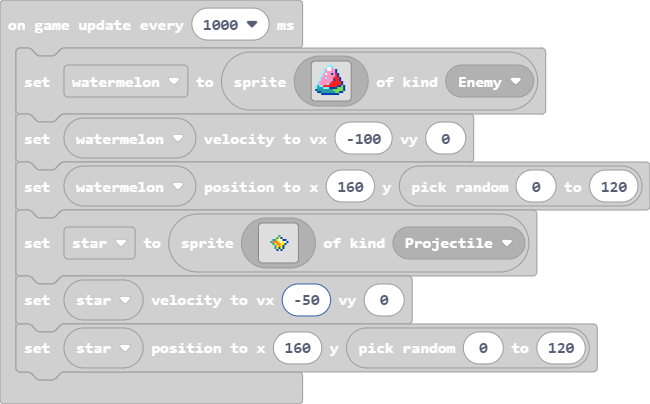
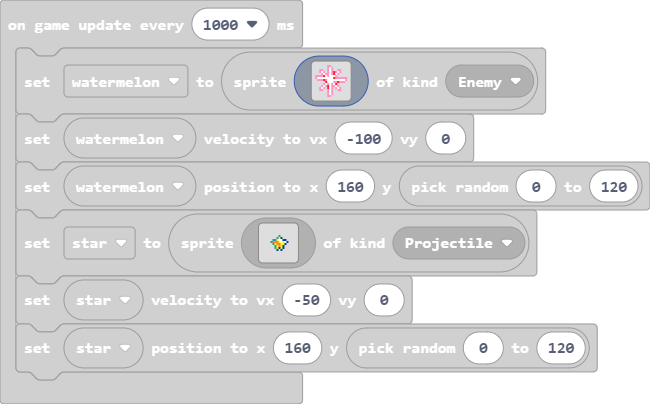
changed watermelon to red shiny star

Changed region(s): [[0.4308, 0.1188, 0.5846, 0.2673], [0.4615, 0.7723, 0.4923, 0.802], [0.4615, 0.6832, 0.4923, 0.7129]]

diff --git a/main.ts b/main.ts
@@ -203,22 +203,22 @@ info.setLife(5)
[1 lines of base64/hex data omitted]
 game.onUpdateInterval(1000, function () {
     watermelon = sprites.create(img`
-        . . . . . . 9 9 9 . . . . . . . 
-        . . . . . 9 1 1 3 9 . . . . . . 
-        . . . . 9 3 1 1 3 3 8 . . . . . 
-        . . . . 9 3 3 3 3 3 8 . . . . . 
-        . . . 9 3 1 3 3 8 3 2 8 . . . . 
-        . . . 9 3 3 3 3 3 3 2 8 . . . . 
-        . . 9 3 3 9 3 3 3 2 2 2 8 . . . 
-        . . 9 3 3 3 3 3 3 8 2 2 8 . . . 
-        . 9 3 3 3 3 3 3 2 2 2 2 2 8 . . 
-        . 9 3 3 3 3 9 2 2 2 2 2 2 8 . . 
-        9 6 9 9 2 2 2 2 2 2 2 8 8 7 8 . 
-        9 6 6 6 9 9 9 8 8 8 8 7 7 7 8 . 
-        8 6 6 6 6 6 6 6 6 7 7 7 7 7 8 . 
-        . 8 8 6 6 6 6 6 6 6 7 7 8 8 . . 
-        . . . 8 8 8 8 8 8 8 8 8 . . . . 
-        . . . . . . . . . . . . . . . . 
+        . . . . . . 3 3 . . . . . . . . 
+        . . . . . . 3 1 3 . . . . . . . 
+        . . 3 3 . . 3 1 3 . . 3 3 . . . 
+        . . 3 1 3 . 3 1 3 2 3 1 3 . . . 
+        . . . 3 1 3 3 1 3 2 1 3 . . . . 
+        3 3 3 3 2 1 3 1 1 1 3 . . . . . 
+        3 1 1 1 1 1 1 1 1 2 3 3 3 3 3 3 
+        . 3 3 3 2 3 1 1 1 1 1 1 1 1 1 3 
+        . . . . . 2 1 1 1 3 3 2 3 3 3 . 
+        . . . . 3 1 3 1 3 1 2 . . . . . 
+        . . . 3 1 3 2 1 3 3 1 3 . . . . 
+        . . 3 1 3 . 2 1 3 . 3 1 3 . . . 
+        . . 3 3 . . 3 1 3 . . 3 3 . . . 
+        . . . . . . 3 1 3 . . . . . . . 
+        . . . . . . 3 1 3 . . . . . . . 
+        . . . . . . 3 3 . . . . . . . . 
         `, SpriteKind.Enemy)
     watermelon.setVelocity(-100, 0)
     watermelon.setPosition(160, randint(0, 120))
